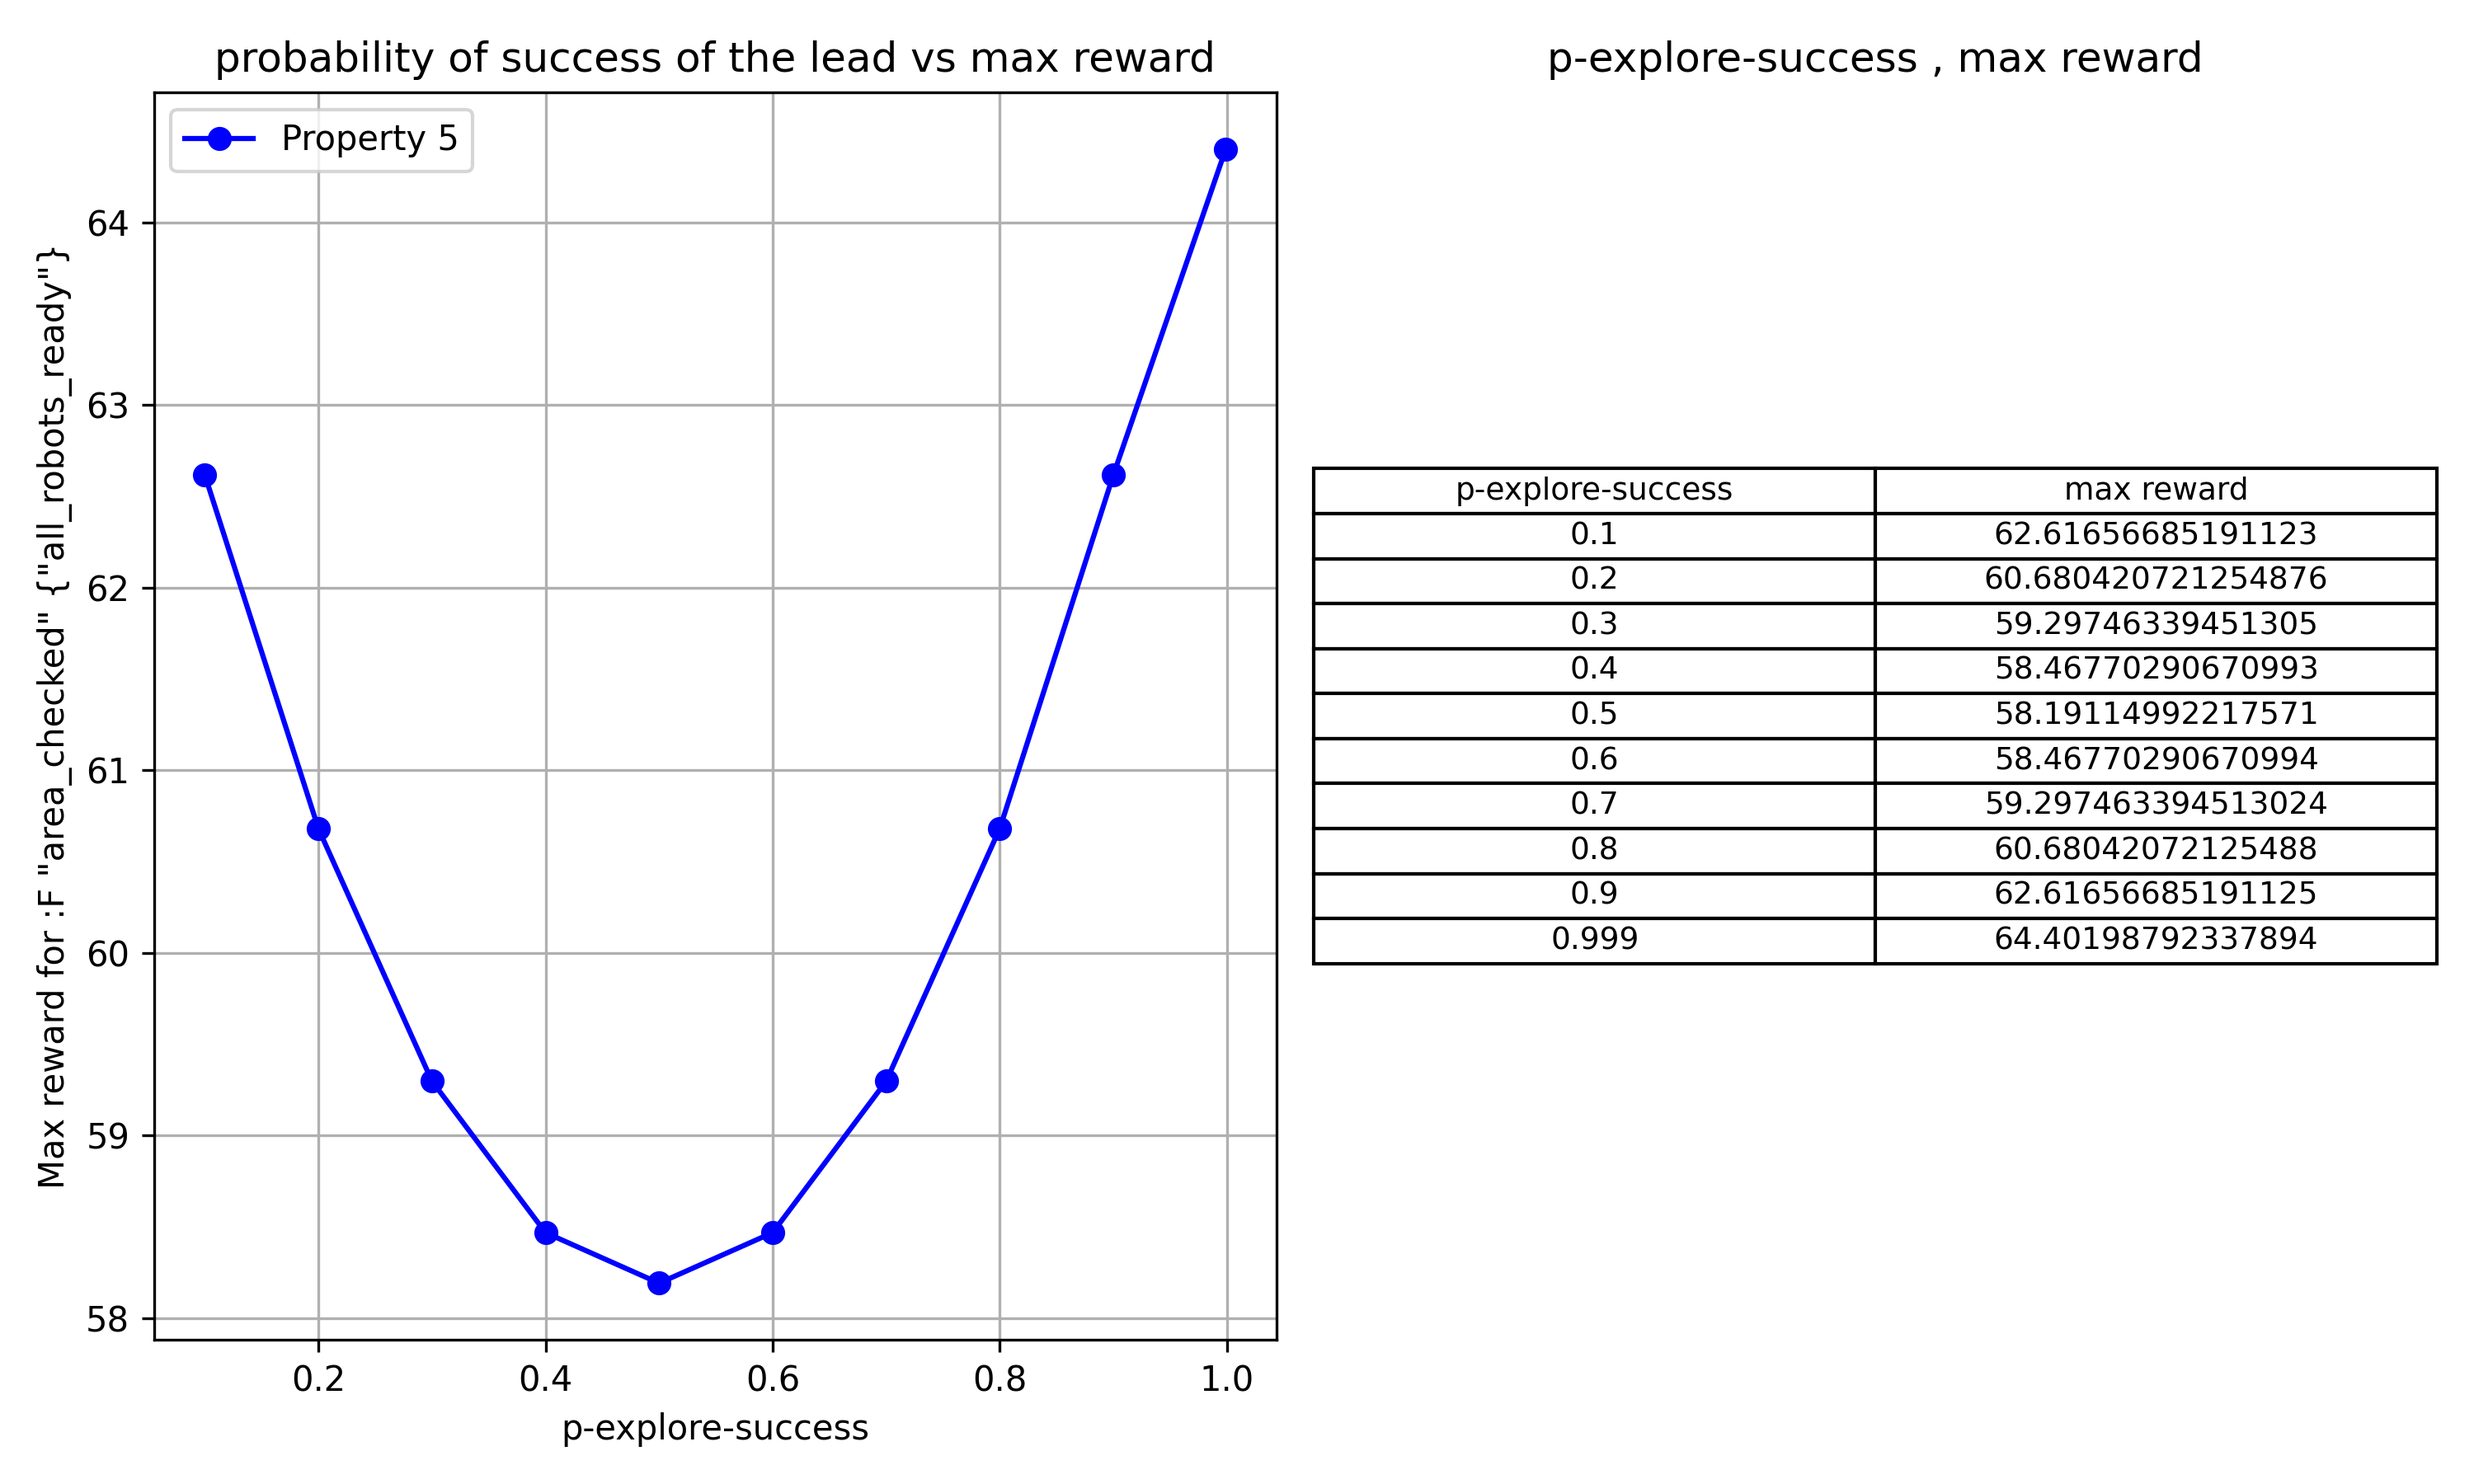
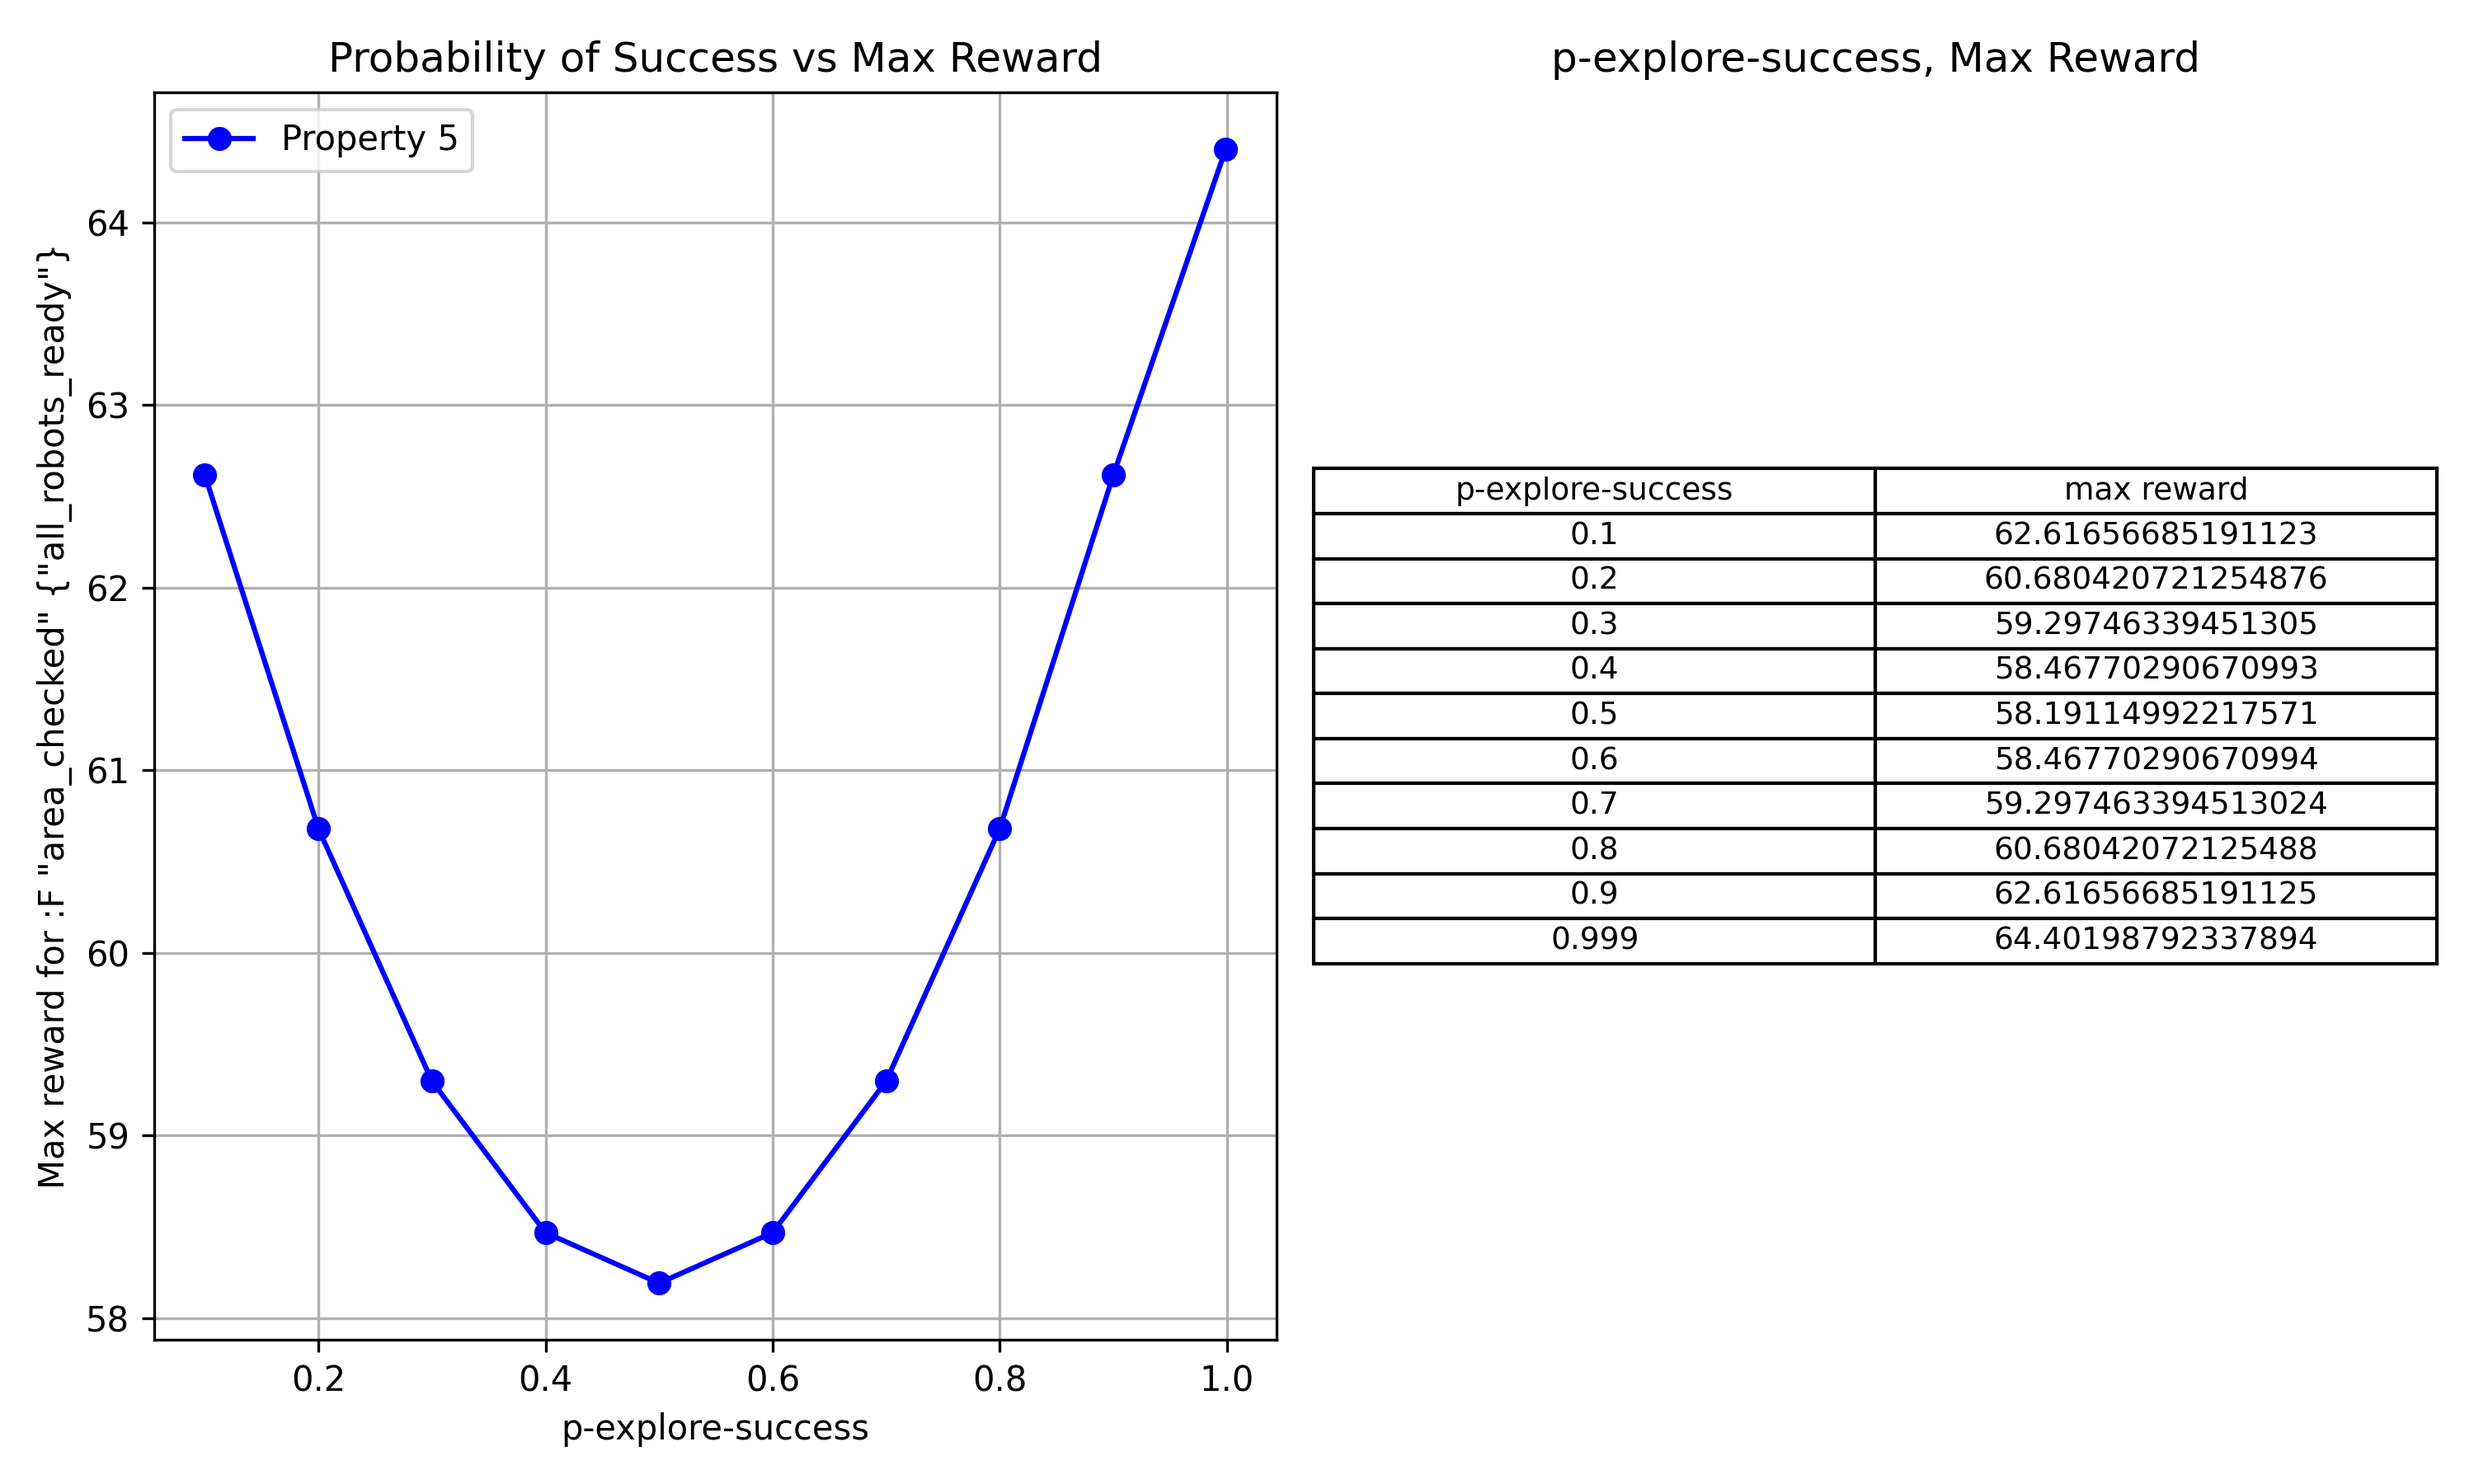
feat: add comprasion result for result2

Changed region(s): [[0.093, 0.0311, 0.496, 0.0622], [0.62, 0.0311, 0.899, 0.0622]]

diff --git a/codes/code2.py b/codes/code2.py
@@ -1,40 +1,58 @@
 import subprocess
 import matplotlib.pyplot as plt
 
-
 model_file = r"C:\Aterm9\Karshensi_Project\all\first_model.prism"
 properties_file = r"C:\Aterm9\Karshensi_Project\all\properties.props"
 cost_file_path = r"C:\Aterm9\Karshensi_Project\all\consts\consts2.txt"
 
+def plot_results(result_data, output_file):
+    plt.figure(figsize=(10, 6))
 
-def parse_cost_line(line):
+    # Plot Property 5
+    plt.subplot(121)
+    plt.plot(result_data['group'], result_data['property_5'], marker='o', color='b', label='Property 5')
+    plt.xlabel('p-explore-success')
+    plt.ylabel('Max reward for :F "area_checked" {"all_robots_ready"}')
+    plt.title('Probability of Success vs Max Reward')
+    plt.grid(True)
+    plt.legend()
+
+    # Table for Property 5
+    plt.subplot(122)
+    plt.axis('off')
+    columns = ["p-explore-success", "max reward"]
+    data = list(zip(result_data['group'], result_data['property_5']))
+    plt.table(cellText=data, colLabels=columns, loc='center', cellLoc='center')
+    plt.title("p-explore-success, Max Reward")
+    plt.tight_layout()
+
+    plt.savefig(output_file, format='png', dpi=300)
+    plt.close()
+
+def extract_cost_line(line):
     param_dict = {}
     for param in line.strip().split(","):
         key_value = param.split("=")
         if len(key_value) == 2:
             key, value = key_value
-            param_dict[key.strip()] = float(value.strip()) if "." in value else int(value.strip())  
+            param_dict[key.strip()] = float(value.strip()) if "." in value else int(value.strip())
     return param_dict
 
 
-def run_prism_with_cost_group(cost_group, counterGroup, result_data):
-
+def connect_to_prism_cli_and_run(cost_group, counterGroup, result_data):
     param_str = ",".join([f"{key}={value}" for key, value in cost_group.items()])
-
     prism_command = [
-        r"cd", r"C:\Program Files\prism-4.8.1\bin", "&&", 
+        r"cd", r"C:\Program Files\prism-4.8.1\bin", "&&",
         r"prism.bat", model_file, properties_file, "-const", param_str
     ]
-
     try:
         result = subprocess.run(' '.join(prism_command), shell=True, capture_output=True, text=True, check=True)
-        
         output = result.stdout
         propertyNumber = 1
         p_explore_success = cost_group["p_explore_success"]
         for line in output.splitlines():
             if "Result" in line:
-                print(f"Result for cost group {counterGroup} , property { propertyNumber} : {line}")
+                print(f"Result for cost group {counterGroup} , property {propertyNumber} : {line}")
                 if propertyNumber == 5:
                     property_5 = float(line.split(":")[1].strip())
                     result_data['group'].append(p_explore_success)
@@ -42,51 +60,68 @@ def run_prism_with_cost_group(cost_group, counterGroup, result_data):
                 elif propertyNumber == 7:
                     property_7 = float(line.split(":")[1].strip())
                     result_data['property_7'].append(property_7)
-         
-             
+
                 propertyNumber += 1
-    
     except subprocess.CalledProcessError as e:
         print(f"Error running PRISM with cost group {counterGroup}:\n", e.stderr)
 
-result_data = {
-    'group': [],
-    'property_5': [],
-    'property_7': [],
-    'property_8': []
-}
 
 
+
+def plot_comparison(data1, data2, group_label, property_label, title, output_file):
+    """
+    Plots comparison between two sets of data with a graph and table.
+
+    Parameters:
+    - data1: Dictionary with 'group' and 'property' values for dataset 1.
+    - data2: Dictionary with 'group' and 'property' values for dataset 2.
+    - group_label: Label for the x-axis (e.g., "p-explore-success").
+    - property_label: Label for the y-axis (e.g., "Max Reward").
+    - title: Title of the plot and table (e.g., "Comparison of Max Rewards").
+    - output_file: Path for saving the output plot image.
+    """
+    plt.figure(figsize=(12, 8))
+
+    # Plot Comparison
+    plt.subplot(121)
+    plt.plot(data1['group'], data1['property'], marker='o', color='b', label='property5')
+    plt.plot(data2['group'], data2['property'], marker='x', color='r', label='property7')
+    plt.xlabel(group_label)
+    plt.ylabel(property_label)
+    plt.title(f"{title} (Graph)")
+    plt.grid(True)
+    plt.legend()
+
+    # Table for Comparison
+    plt.subplot(122)
+    plt.axis('off')
+    columns = [group_label, "maxReward5", "maxReward7", "Difference"]
+    table_data = []
+    for g, p1, p2 in zip(data1['group'], data1['property'], data2['property']):
+        diff = round(abs(p1 - p2), 4)
+        table_data.append([g, p1, p2, diff])
+    plt.table(cellText=table_data, colLabels=columns, loc='center', cellLoc='center', fontsize=9)
+    plt.title(f"{title} (Table)")
+
+    plt.tight_layout()
+    plt.savefig(output_file, format='png', dpi=300)
+    plt.close()
+
+
+# Main script
+result_data = {'group': [],'property_5': [],'property_7': []}
 counterGroup = 1
 with open(cost_file_path, 'r') as cost_file:
     for line in cost_file:
-        if line.strip():  
-            cost_group = parse_cost_line(line)
+        if line.strip():
+            cost_group = extract_cost_line(line)
             run_prism_with_cost_group(cost_group, counterGroup, result_data)
-        counterGroup += 1 
+        counterGroup += 1
 
+# Plotting the individual results
+plot_results(result_data, "plots/plot_results2.png")
 
-plt.figure(figsize=(10, 6))
-
-# Plot Property 5
-plt.subplot(121)
-plt.plot(result_data['group'], result_data['property_5'], marker='o', color='b', label='Property 5')
-plt.xlabel('p-explore-success')
-plt.ylabel('Max reward for :F "area_checked" {"all_robots_ready"}')
-plt.title('probability of success of the lead vs max reward')
-plt.grid(True)
-plt.legend()
-
-# Table for Property 5
-plt.subplot(122)
-plt.axis('off')
-columns = ["p-explore-success", "max reward"]
-data = list(zip(result_data['group'], result_data['property_5']))
-plt.table(cellText=data, colLabels=columns, loc='center', cellLoc='center')
-plt.title("p-explore-success , max reward")
-plt.tight_layout()
-
-output_file = "plots/plot_results2.png" 
-plt.savefig(output_file, format='png', dpi=300) 
-
-plt.close()
+# Plotting the comparison
+data1 = {'group': result_data['group'], 'property': result_data['property_5']}
+data2 = {'group': result_data['group'], 'property': result_data['property_7']}
+plot_comparison(data1, data2, "p-explore-success", "Max Reward", "Comparison of Properties 5 and 7", "plots/plot_comparison_result2.png")
